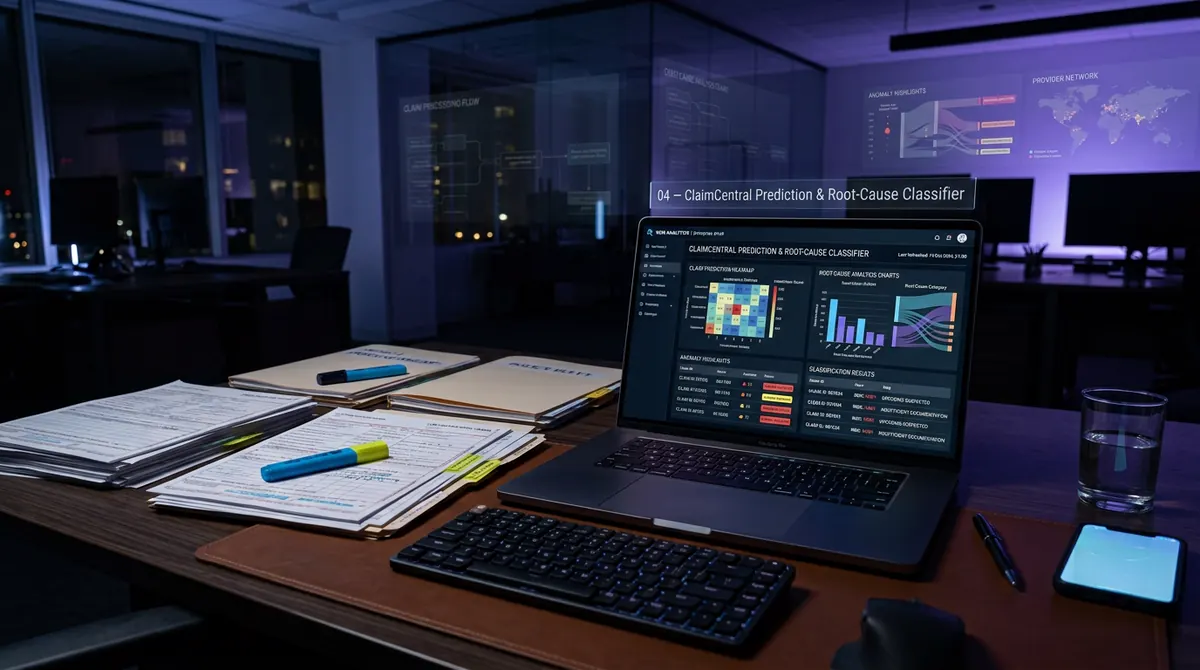
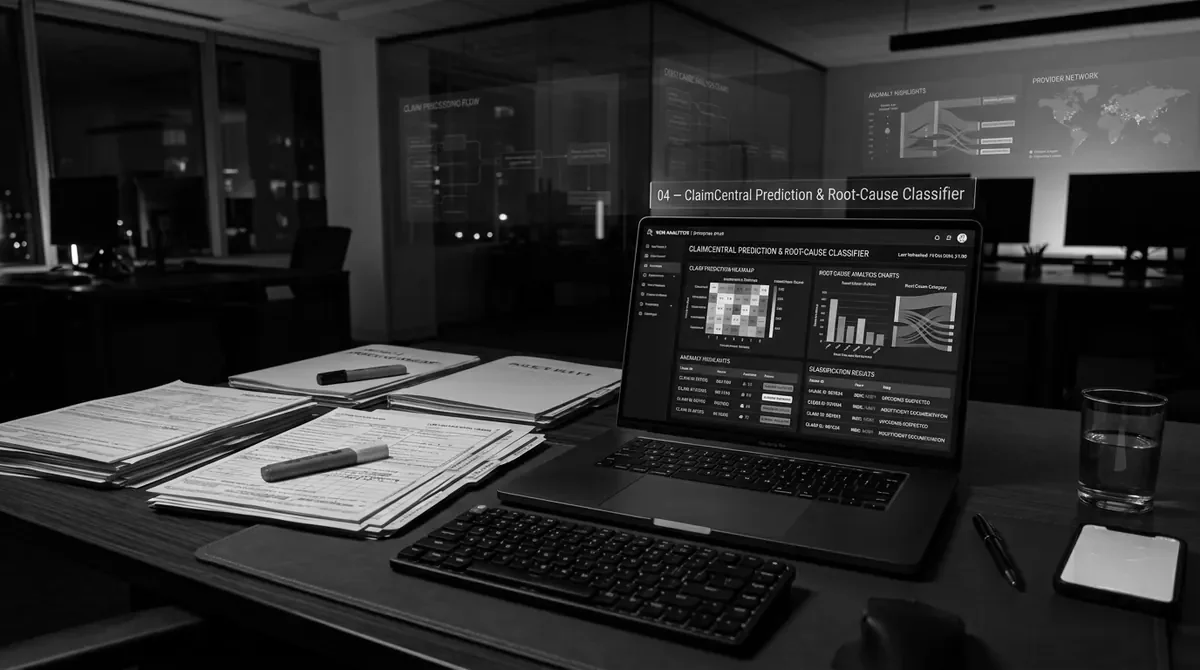
Fix service/industry/case-study review items; greyscale imagery
- Mobile tunnel: widen FOV and thin fog on portrait frames
- Automation: remove empty dark section; AI/ML: remove Full Code Ownership tag
- UI/UX: fix heading font, replace 1.6MB PNG with webp, drop heavy filters
- Industries: centre FAQ, visible open border, grey hero accent, greyscale hero art
- Case studies: drop card tech tags, remove duplicate stack chips, add right-hand image/details column, greyscale images
- Cost calculator: trim hero trust list

diff --git a/src/pages/IndividualCaseStudy.jsx b/src/pages/IndividualCaseStudy.jsx
@@ -370,15 +370,21 @@ const CSS = `
 .cs-stat:last-child{border-right:0}
 .cs-stat b{display:block;font-size:var(--fs-card-title);font-weight:800;letter-spacing:-.01em;color:#0b0b0b;line-height:1.2}
 .cs-stat span{display:block;margin-top:6px;font-size:var(--fs-label);font-weight:700;letter-spacing:.12em;text-transform:uppercase;color:#777}
-.cs-wrap{display:grid;grid-template-columns:230px minmax(0,1fr);gap:clamp(32px,5vw,72px);padding:clamp(36px,5vw,72px) 0 clamp(48px,6vw,96px);align-items:start}
+.cs-wrap{display:grid;grid-template-columns:210px minmax(0,1fr) minmax(300px,400px);gap:clamp(32px,5vw,72px);padding:clamp(36px,5vw,72px) 0 clamp(48px,6vw,96px);align-items:start}
 .cs-toc{position:sticky;top:104px}
 .cs-toc p{margin:0 0 12px;font-size:var(--fs-label);font-weight:800;letter-spacing:.16em;text-transform:uppercase;color:#777}
 .cs-toc a{display:block;padding:9px 0 9px 16px;border-left:2px solid rgba(0,0,0,.12);font-size:var(--fs-small);font-weight:600;color:#666;text-decoration:none;transition:color .2s,border-color .2s}
 .cs-toc a:hover{color:#000}
 .cs-toc a.is-on{color:#000;border-left-color:#000}
-.cs-main{min-width:0;max-width:820px}
+.cs-main{min-width:0}
+.cs-side{position:sticky;top:104px;display:grid;gap:18px}
+.cs-side .cs-fig{margin:0}
+.cs-side .cs-glance{margin:0;grid-template-columns:1fr}
+.cs-side .cs-glance div:last-child{border-bottom:0}
+.cs-fig--inline{display:none}
 .cs-fig{margin:0 0 clamp(32px,4.5vw,56px);border-radius:20px;overflow:hidden;border:1px solid rgba(0,0,0,.1);background:#0b0b0b;line-height:0}
-.cs-fig img{width:100%;height:auto;display:block}
+.cs-fig img{width:100%;height:auto;display:block;filter:grayscale(1)}
+.cs-fig--side img{aspect-ratio:4/3;object-fit:cover}
 .cs-sec{scroll-margin-top:104px;margin-bottom:clamp(36px,5vw,64px)}
 .cs-sec h2{margin:0 0 clamp(14px,1.8vw,20px);font-size:var(--fs-h3);font-weight:800;letter-spacing:-.02em;color:#0b0b0b;text-align:left}
 .cs-sec p{margin:0 0 14px;font-size:var(--fs-card-title);line-height:1.8;color:#2f2f2f;text-align:left}
@@ -408,7 +414,7 @@ const CSS = `
 .cs-rgrid{display:grid;grid-template-columns:repeat(auto-fit,minmax(min(100%,300px),1fr));gap:clamp(16px,2vw,26px)}
 .cs-rcard{display:flex;flex-direction:column;border-radius:18px;overflow:hidden;background:rgba(255,255,255,.04);border:1px solid rgba(255,255,255,.12);text-decoration:none;color:#fff;transition:transform .3s,border-color .3s,background .3s}
 .cs-rcard:hover{transform:translateY(-5px);border-color:rgba(255,255,255,.34);background:rgba(255,255,255,.07)}
-.cs-rcard img{width:100%;aspect-ratio:16/9;object-fit:cover;display:block;background:#161616}
+.cs-rcard img{filter:grayscale(1);width:100%;aspect-ratio:16/9;object-fit:cover;display:block;background:#161616}
 .cs-rbody{padding:clamp(16px,2vw,22px);display:flex;flex-direction:column;gap:10px;flex:1}
 .cs-rbody small{font-size:var(--fs-label);font-weight:700;letter-spacing:.14em;text-transform:uppercase;color:rgba(255,255,255,.55)}
 .cs-rbody h3{margin:0;font-size:var(--fs-card-title);font-weight:700;line-height:1.3;color:#fff;text-align:left}
@@ -419,6 +425,13 @@ const CSS = `
 .cs-cta-box p{margin:0;max-width:640px;font-size:var(--fs-card-body);line-height:1.7;color:rgba(255,255,255,.72);text-align:left}
 .cs-cta-box .cs-btn--solid{background:#fff;color:#000;border-color:#fff}
 .cs-cta-box .cs-btn--solid:hover{background:#d9d9d9}
+@media (max-width:1180px){
+  .cs-wrap{grid-template-columns:210px minmax(0,1fr)}
+  .cs-side{position:static;grid-column:1/-1}
+  .cs-fig--side{display:none}
+  .cs-side .cs-glance{grid-template-columns:repeat(auto-fit,minmax(200px,1fr))}
+  .cs-fig--inline{display:block}
+}
 @media (max-width:980px){
   .cs-wrap{grid-template-columns:minmax(0,1fr)}
   .cs-toc{position:static;display:flex;flex-wrap:wrap;gap:8px;align-items:center}
@@ -522,7 +535,6 @@ function CaseStudyView({ slug }) {
             <div className="cs-kicker">Case study <i /> {meta.industryLabel} <i /> {meta.serviceLabel}</div>
             <h1>{cs.title}</h1>
             <p className="cs-sub">{firstSentence(cs.overview)}</p>
-            <div className="cs-chips">{cs.tools.slice(0, 6).map((t) => <span className="cs-chip" key={t}>{t}</span>)}</div>
             <div className="cs-actions">
               {meta.githubUrl && (
                 <a className="cs-btn cs-btn--solid" href={meta.githubUrl} target="_blank" rel="noopener noreferrer"><SquareCode size={16} /> View the code</a>
@@ -549,18 +561,11 @@ function CaseStudyView({ slug }) {
           </aside>
 
           <main className="cs-main">
-            {image && <figure className="cs-fig"><img src={image} alt={`${cs.title} project visual`} loading="eager" decoding="async" /></figure>}
+            {image && <figure className="cs-fig cs-fig--inline"><img src={image} alt={`${cs.title} project visual`} loading="eager" decoding="async" /></figure>}
 
             <section className="cs-sec" id="overview">
               <h2>Overview</h2>
               <p>{cs.overview}</p>
-              <dl className="cs-glance">
-                <div><dt>Industry</dt><dd>{meta.industryLabel}</dd></div>
-                <div><dt>Service</dt><dd>{meta.serviceLabel}</dd></div>
-                <div><dt>Project type</dt><dd>{cs.investment}</dd></div>
-                <div><dt>Source</dt><dd>{meta.githubUrl ? <a href={meta.githubUrl} target="_blank" rel="noopener noreferrer">Public GitHub repository</a> : 'Portfolio project'}</dd></div>
-                {meta.liveDemo && <div><dt>Live demo</dt><dd><a href={meta.liveDemo} target="_blank" rel="noopener noreferrer">Open the demo</a></dd></div>}
-              </dl>
             </section>
 
             <section className="cs-sec" id="challenge">
@@ -586,6 +591,17 @@ function CaseStudyView({ slug }) {
               <div className="cs-stack">{cs.tools.map((t) => <span key={t}>{t}</span>)}</div>
             </section>
           </main>
+
+          <aside className="cs-side" aria-label="Project visual and details">
+            {image && <figure className="cs-fig cs-fig--side"><img src={image} alt={`${cs.title} project visual`} loading="eager" decoding="async" /></figure>}
+              <dl className="cs-glance">
+                <div><dt>Industry</dt><dd>{meta.industryLabel}</dd></div>
+                <div><dt>Service</dt><dd>{meta.serviceLabel}</dd></div>
+                <div><dt>Project type</dt><dd>{cs.investment}</dd></div>
+                <div><dt>Source</dt><dd>{meta.githubUrl ? <a href={meta.githubUrl} target="_blank" rel="noopener noreferrer">Public GitHub repository</a> : 'Portfolio project'}</dd></div>
+                {meta.liveDemo && <div><dt>Live demo</dt><dd><a href={meta.liveDemo} target="_blank" rel="noopener noreferrer">Open the demo</a></dd></div>}
+              </dl>
+          </aside>
         </div>
       </div>
 

diff --git a/src/pages/Industries/IndustryFinancial.jsx b/src/pages/Industries/IndustryFinancial.jsx
@@ -189,7 +189,7 @@ export default function IndustryFinancial() {
           <motion.div initial={{ opacity: 0, y: 20 }} whileInView={{ opacity: 1, y: 0 }} viewport={{ once: true }} transition={{ duration: 0.55 }} style={{ textAlign: 'center', marginBottom: 'clamp(24px, 4vw, 48px)' }}>
             <SectionBadge dark>Technology Stack</SectionBadge>
             <h2 className="section-h2 dark" style={{ fontSize: 'var(--fs-section-h2)', marginBottom: 12 }}>Built on Enterprise-Grade Infrastructure</h2>
-            <p style={{ color: B.textDarkMid, fontSize: 'var(--fs-card-title)', maxWidth: 640, margin: '0' }}>The exact tools we've used to design, build, and ship each of the projects above.</p>
+            <p style={{ color: B.textDarkMid, fontSize: 'var(--fs-card-title)', maxWidth: 640, margin: '0 auto' }}>The exact tools we've used to design, build, and ship each of the projects above.</p>
           </motion.div>
           <div className="grid-tech">
             {[
@@ -316,9 +316,9 @@ export default function IndustryFinancial() {
             <h2 className="section-h2 dark" style={{ color: B.textDark }}>Questions from Financial Teams</h2>
             <p className="section-lead" style={{ color: B.textDarkMid }}>Honest answers before you engage.</p>
           </motion.div>
-          <div style={{ maxWidth: 840, margin: '0' }}>
+          <div style={{ maxWidth: 840, margin: '0 auto' }}>
             {faqs.map((faq, i) => (
-              <FaqItem key={i} q={faq.q} a={faq.a} isOpen={openFaq === i} onClick={() => setOpenFaq(openFaq === i ? -1 : i)} index={i} color={B.action} />
+              <FaqItem key={i} q={faq.q} a={faq.a} isOpen={openFaq === i} onClick={() => setOpenFaq(openFaq === i ? -1 : i)} index={i} color={lift(B.action)} />
             ))}
           </div>
         </div>

diff --git a/src/pages/Industries/Industryeducation.jsx b/src/pages/Industries/Industryeducation.jsx
@@ -201,7 +201,7 @@ export default function IndustryEducation() {
           <motion.div initial={{ opacity: 0, y: 20 }} whileInView={{ opacity: 1, y: 0 }} viewport={{ once: true }} transition={{ duration: 0.55 }} style={{ textAlign: 'center', marginBottom: 'clamp(24px, 4vw, 48px)' }}>
             <SectionBadge dark>Technology Stack</SectionBadge>
             <h2 className="section-h2 dark" style={{ fontSize: 'var(--fs-section-h2)', marginBottom: 12 }}>Built to Ship, Not Just Prototype</h2>
-            <p style={{ color: B.textDarkMid, fontSize: 'var(--fs-card-title)', maxWidth: 640, margin: '0' }}>The exact approach we've used to design and validate the project above.</p>
+            <p style={{ color: B.textDarkMid, fontSize: 'var(--fs-card-title)', maxWidth: 640, margin: '0 auto' }}>The exact approach we've used to design and validate the project above.</p>
           </motion.div>
           <div className="grid-tech">
             {[
@@ -328,9 +328,9 @@ npm                      </div>
             <h2 className="section-h2 dark" style={{ color: B.textDark }}>Questions from Education Teams</h2>
             <p className="section-lead" style={{ color: B.textDarkMid }}>Honest answers before you engage.</p>
           </motion.div>
-          <div style={{ maxWidth: 840, margin: '0' }}>
+          <div style={{ maxWidth: 840, margin: '0 auto' }}>
             {faqs.map((faq, i) => (
-              <FaqItem key={i} q={faq.q} a={faq.a} isOpen={openFaq === i} onClick={() => setOpenFaq(openFaq === i ? -1 : i)} index={i} color={B.action} />
+              <FaqItem key={i} q={faq.q} a={faq.a} isOpen={openFaq === i} onClick={() => setOpenFaq(openFaq === i ? -1 : i)} index={i} color={lift(B.action)} />
             ))}
           </div>
         </div>

diff --git a/src/pages/CaseStudies.jsx b/src/pages/CaseStudies.jsx
@@ -174,7 +174,7 @@ function CaseStudyCard({ cs, i, isFeatured = false }) {
               backgroundSize: 'cover', backgroundPosition: 'center',
               transform: hovered ? 'scale(1.06)' : 'scale(1)',
               transition: 'transform 0.7s cubic-bezier(0.16, 1, 0.3, 1)',
-              filter: hovered ? 'brightness(0.75)' : 'brightness(0.68)',
+              filter: hovered ? 'grayscale(1) brightness(0.75)' : 'grayscale(1) brightness(0.68)',
             }} />
             <div style={{ position: 'absolute', inset: 0, background: 'linear-gradient(to bottom, rgba(6,6,6,0) 45%, rgba(6,6,6,0.88) 100%)' }} />
             <div style={{
@@ -196,17 +196,6 @@ function CaseStudyCard({ cs, i, isFeatured = false }) {
                 <Star size={12} fill="white" /> Featured
               </div>
             )}
-            <div style={{ position: 'absolute', top: 16, right: 16, display: 'flex', flexWrap: 'wrap', gap: 6, justifyContent: 'flex-end', maxWidth: '80%', zIndex: 5 }}>
-              {cs.tags.map((tag, tIdx) => (
-                <span key={tIdx} style={{
-                  fontSize: 'var(--fs-label)', fontWeight: 700,
-                  textTransform: 'uppercase', letterSpacing: '0.08em',
-                  color: B.textDark, background: 'rgba(255,255,255,0.12)',
-                  backdropFilter: 'blur(8px)', padding: '4px 10px', borderRadius: 6,
-                  border: '1px solid rgba(255,255,255,0.15)',
-                }}>{tag}</span>
-              ))}
-            </div>
           </div>
 
           {/* CONTENT */}

diff --git a/src/pages/Services/ServicesAiMl.jsx b/src/pages/Services/ServicesAiMl.jsx
@@ -292,35 +292,6 @@ export default function ServiceAiMl() {
               </motion.div>
             </div>
 
-            {/* BOTTOM ROW: Tags (Centered) */}
-            <motion.div 
-              initial={{ opacity: 0, y: 10 }} 
-              animate={{ opacity: 1, y: 0 }}
-              transition={{ delay: 0.5, duration: 0.5 }}
-              style={{ 
-                display: 'flex', 
-                flexWrap: 'wrap', 
-                gap: 'clamp(12px, 2vw, 20px)', 
-                justifyContent: 'center',
-                width: '100%',
-                paddingTop: 'clamp(10px, 2vw, 20px)',
-                borderTop: `1px solid ${B.primaryBorder}40`
-              }}
-            >
-              {['Full Code Ownership'].map((t, i) => (
-                <div key={i} style={{
-                  display: 'flex', alignItems: 'center', gap: 8,
-                  padding: 'clamp(8px, 1vw, 12px) clamp(14px, 2vw, 20px)', borderRadius: 50,
-                  background: 'rgba(255,255,255,0.6)', border: `1px solid ${B.primaryBorder}`,
-                  fontSize: 'var(--fs-card-body)', fontWeight: 600, color: B.textMain,
-                  boxShadow: '0 4px 12px rgba(57,57,57,0.05)',
-                  // Continuous floating animation
-                  animation: `wmFloat ${3 + i * 0.5}s ease-in-out infinite`,
-                }}>
-                  <CheckCircle size={14} color={B.action}/> {t}
-                </div>
-              ))}
-            </motion.div>
 
           </div>
         </div>

diff --git a/src/pages/Services/ServicesUiUx.jsx b/src/pages/Services/ServicesUiUx.jsx
@@ -9,7 +9,7 @@ import { motion } from 'framer-motion';
 import { ArrowRight, Zap, Sparkles } from 'lucide-react';
 import { B, PX, fadeUp, SectionBadge, DataParticles } from '../../theme';
 import { HeroGridBg } from '../../components/BgGrid';
-import uiUxImage from '../../assets/ui-ux-coming-soon.png';
+import uiUxImage from '../../assets/ui-ux-coming-soon.webp';
 
 export default function ServicesUiUx() {
   return (
@@ -49,7 +49,7 @@ export default function ServicesUiUx() {
         }
 
         .uiux-coming-title {
-          font-family: ${B.fontMain};
+          font-family: var(--font-main);
           font-weight: 750;
           font-size: var(--fs-hero);
           color: ${B.primaryDark};
@@ -97,7 +97,6 @@ export default function ServicesUiUx() {
           background:
             radial-gradient(circle at 55% 45%, rgba(128,128,128,0.19), transparent 48%),
             radial-gradient(circle at 70% 70%, rgba(130,130,130,0.12), transparent 42%);
-          filter: blur(8px);
           pointer-events: none;
         }
 
@@ -109,7 +108,6 @@ export default function ServicesUiUx() {
           margin: 0 auto;
           object-fit: contain;
           display: block;
-          filter: drop-shadow(0 26px 45px rgba(52,52,52,0.18));
           animation: uiuxFloat 5.5s ease-in-out infinite;
         }
 

diff --git a/src/pages/Services/ServicesAutomation.jsx b/src/pages/Services/ServicesAutomation.jsx
@@ -22,7 +22,7 @@ import {
 
 import { HeroGridBg, SectionGridBg } from '../../components/BgGrid';
 import PipelineFlow from '../../components/PipelineFlow';
-import { B, SECTION_PAD, PX, fadeUp, DataParticles, SectionBadge, SectionDivider, CircuitBg } from '../../theme';
+import { B, SECTION_PAD, PX, fadeUp, DataParticles, SectionBadge, SectionDivider } from '../../theme';
 
 // ─── Brand Tokens (Synced with ServicesAiMl.jsx) ─────────────────────────────
 // Page-specific accent — warm amber/gold, operations / efficiency vibe
@@ -252,19 +252,6 @@ export default function ServicesAutomation() {
               ))}
             </motion.div>
           </div>
-        </div>
-      </section>
-
-      {/* ══════════ 2. STATS (DARK) ══════════ */}
-      <section style={{
-        padding: 'var(--sp-section) 0',
-        position: 'relative', zIndex: 1,
-        background: 'linear-gradient(135deg, #0a0a0a 0%, #080808 100%)',
-        display: 'flex', alignItems: 'center',
-      }}>
-        <CircuitBg opacity={0.09}/>
-        <DataParticles count={12} dark/>
-        <div style={{ ...PX, position: 'relative', zIndex: 2, width: '100%' }}>
         </div>
       </section>
 

diff --git a/src/theme.css b/src/theme.css
@@ -593,7 +593,6 @@ button:focus-visible {
    viewport edge). Stacks below 980px.
    ═══════════════════════════════════════════════════════════════════════════ */
 .ind-hero {
-  --ind-accent: #0b5cff;
   position: relative;
   overflow: hidden;
   z-index: 1;
@@ -632,7 +631,12 @@ button:focus-visible {
   text-wrap: balance;
 }
 
-.ind-hero-accent { color: var(--ind-accent); }
+.ind-hero-accent {
+  color: #5c5c5c; /* grey accent, same as the service-page headlines */
+  background: linear-gradient(90deg, #5c5c5c 0%, #555555 48%, #727272 100%);
+  -webkit-background-clip: text; background-clip: text;
+  -webkit-text-fill-color: transparent;
+}
 
 .ind-hero-text {
   font-size: var(--fs-card-title);

diff --git a/src/pages/Industries/IndustryHealthcare.jsx b/src/pages/Industries/IndustryHealthcare.jsx
@@ -313,9 +313,9 @@ export default function IndustryHealthcare() {
             <h2 className="section-h2 dark" style={{ color: B.textDark }}>Questions from Clinical Teams</h2>
             <p className="section-lead" style={{ color: B.textDarkMid }}>Honest answers before you engage.</p>
           </motion.div>
-          <div style={{ maxWidth: 840, margin: '0' }}>
+          <div style={{ maxWidth: 840, margin: '0 auto' }}>
             {faqs.map((faq, i) => (
-              <FaqItem key={i} q={faq.q} a={faq.a} isOpen={openFaq === i} onClick={() => setOpenFaq(openFaq === i ? -1 : i)} index={i} color={B.action} />
+              <FaqItem key={i} q={faq.q} a={faq.a} isOpen={openFaq === i} onClick={() => setOpenFaq(openFaq === i ? -1 : i)} index={i} color={lift(B.action)} />
             ))}
           </div>
         </div>

diff --git a/src/pages/Industries/IndustryRetail.jsx b/src/pages/Industries/IndustryRetail.jsx
@@ -307,9 +307,9 @@ export default function IndustryRetail() {
             <h2 className="section-h2 dark" style={{ color: B.textDark }}>Questions from Retail Teams</h2>
             <p className="section-lead" style={{ color: B.textDarkMid }}>Honest answers before you engage.</p>
           </motion.div>
-          <div style={{ maxWidth: 840, margin: '0' }}>
+          <div style={{ maxWidth: 840, margin: '0 auto' }}>
             {faqs.map((faq, i) => (
-              <FaqItem key={i} q={faq.q} a={faq.a} isOpen={openFaq === i} onClick={() => setOpenFaq(openFaq === i ? -1 : i)} index={i} color={B.action} />
+              <FaqItem key={i} q={faq.q} a={faq.a} isOpen={openFaq === i} onClick={() => setOpenFaq(openFaq === i ? -1 : i)} index={i} color={lift(B.action)} />
             ))}
           </div>
         </div>

diff --git a/src/components/ScrollFrameIntro.jsx b/src/components/ScrollFrameIntro.jsx
@@ -320,6 +320,11 @@ function HeroTunnelStage({ sectionRef, stageH, children }) {
         lastKey = key;
         renderer.setSize(iw, ih, false);
         camera.aspect = iw / ih;
+        // Tall/narrow frames (phones) keep the same horizontal field of view as a landscape one, otherwise
+        // the camera only sees a thin strip down the middle of the tunnel and the walls fade into the fog → black.
+        const widen = Math.max(1, 1.5 / camera.aspect);
+        camera.fov = Math.min(105, (2 * Math.atan(Math.tan(THREE.MathUtils.degToRad(30)) * widen) * 180) / Math.PI);
+        scene.fog.density = camera.aspect < 1 ? 0.025 : 0.04;      // thinner fog on portrait so the walls stay visible
         camera.updateProjectionMatrix();
       }
 

diff --git a/src/pages/CostCalculator/CostCalculator.jsx b/src/pages/CostCalculator/CostCalculator.jsx
@@ -315,9 +315,7 @@ export default function CostCalculator() {
               <Link to="/book-discovery" className="btn-outline-action">Talk to an expert</Link>
             </motion.div>
             <motion.ul variants={fadeUp} custom={0.35} className="roi-trust">
-              <li><Lock size={15} /> Runs in your browser</li>
               <li><ShieldCheck size={15} /> No sign-up or email</li>
-              <li><Zap size={15} /> Instant results</li>
             </motion.ul>
           </motion.div>
 
